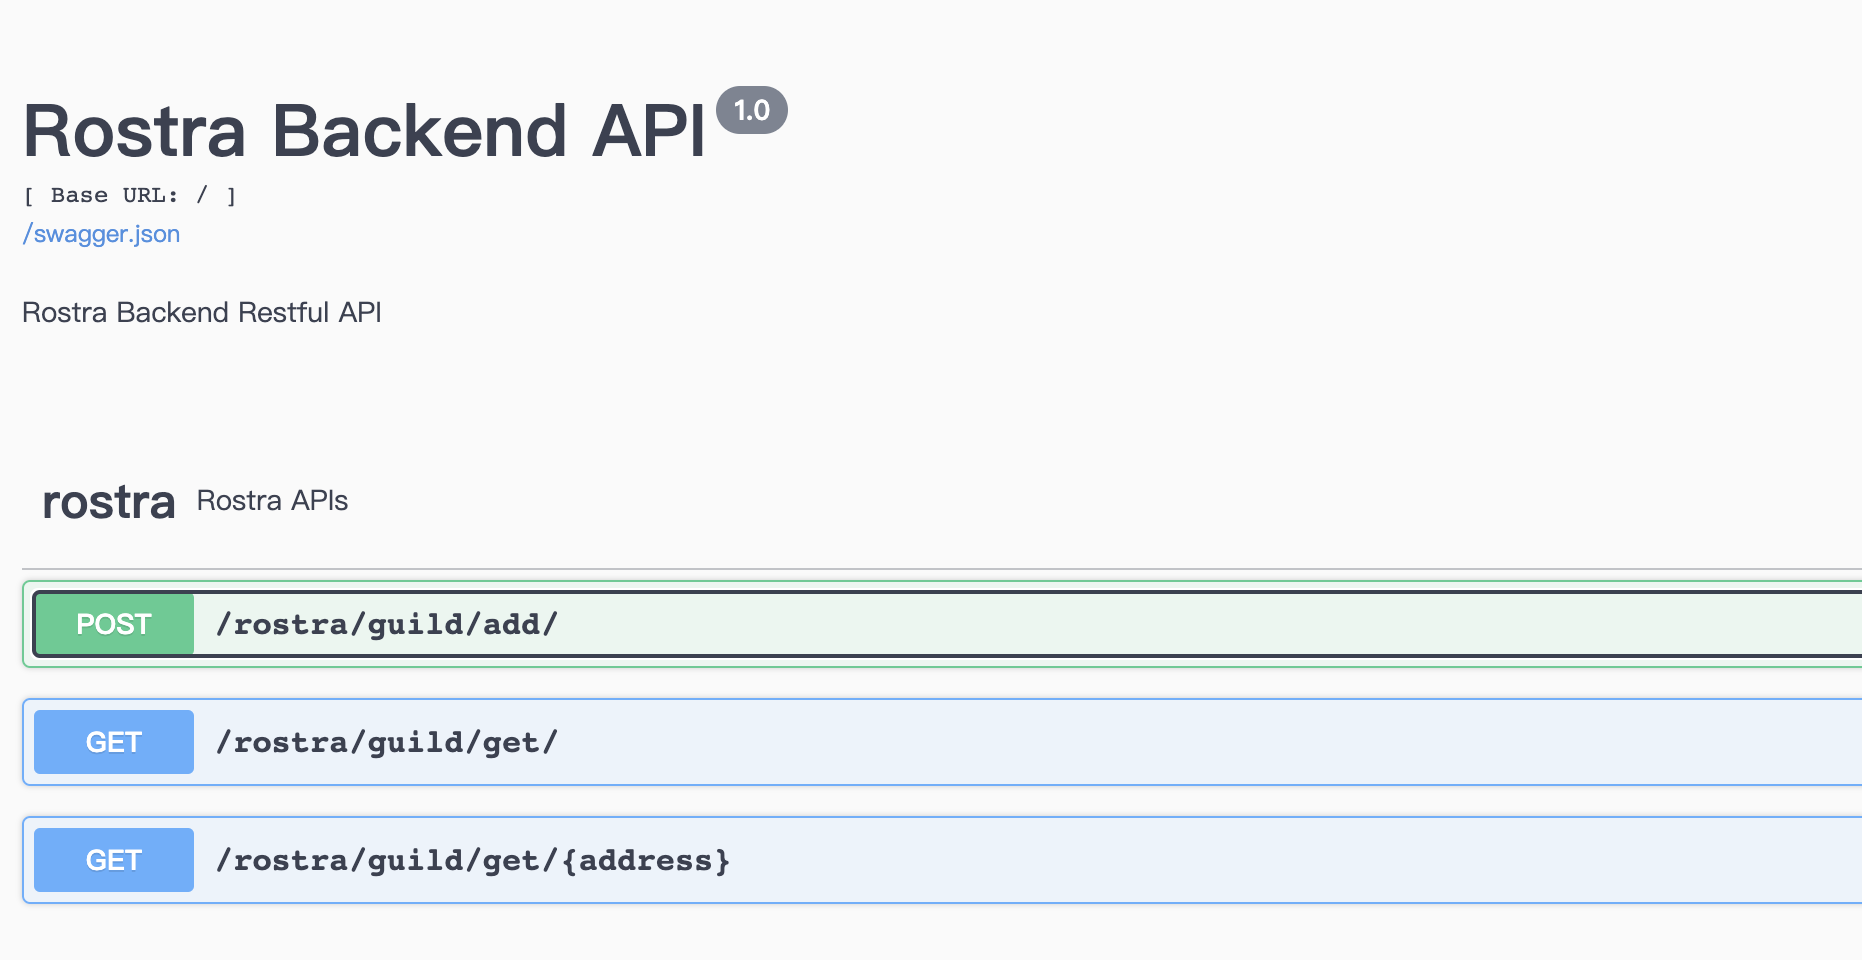
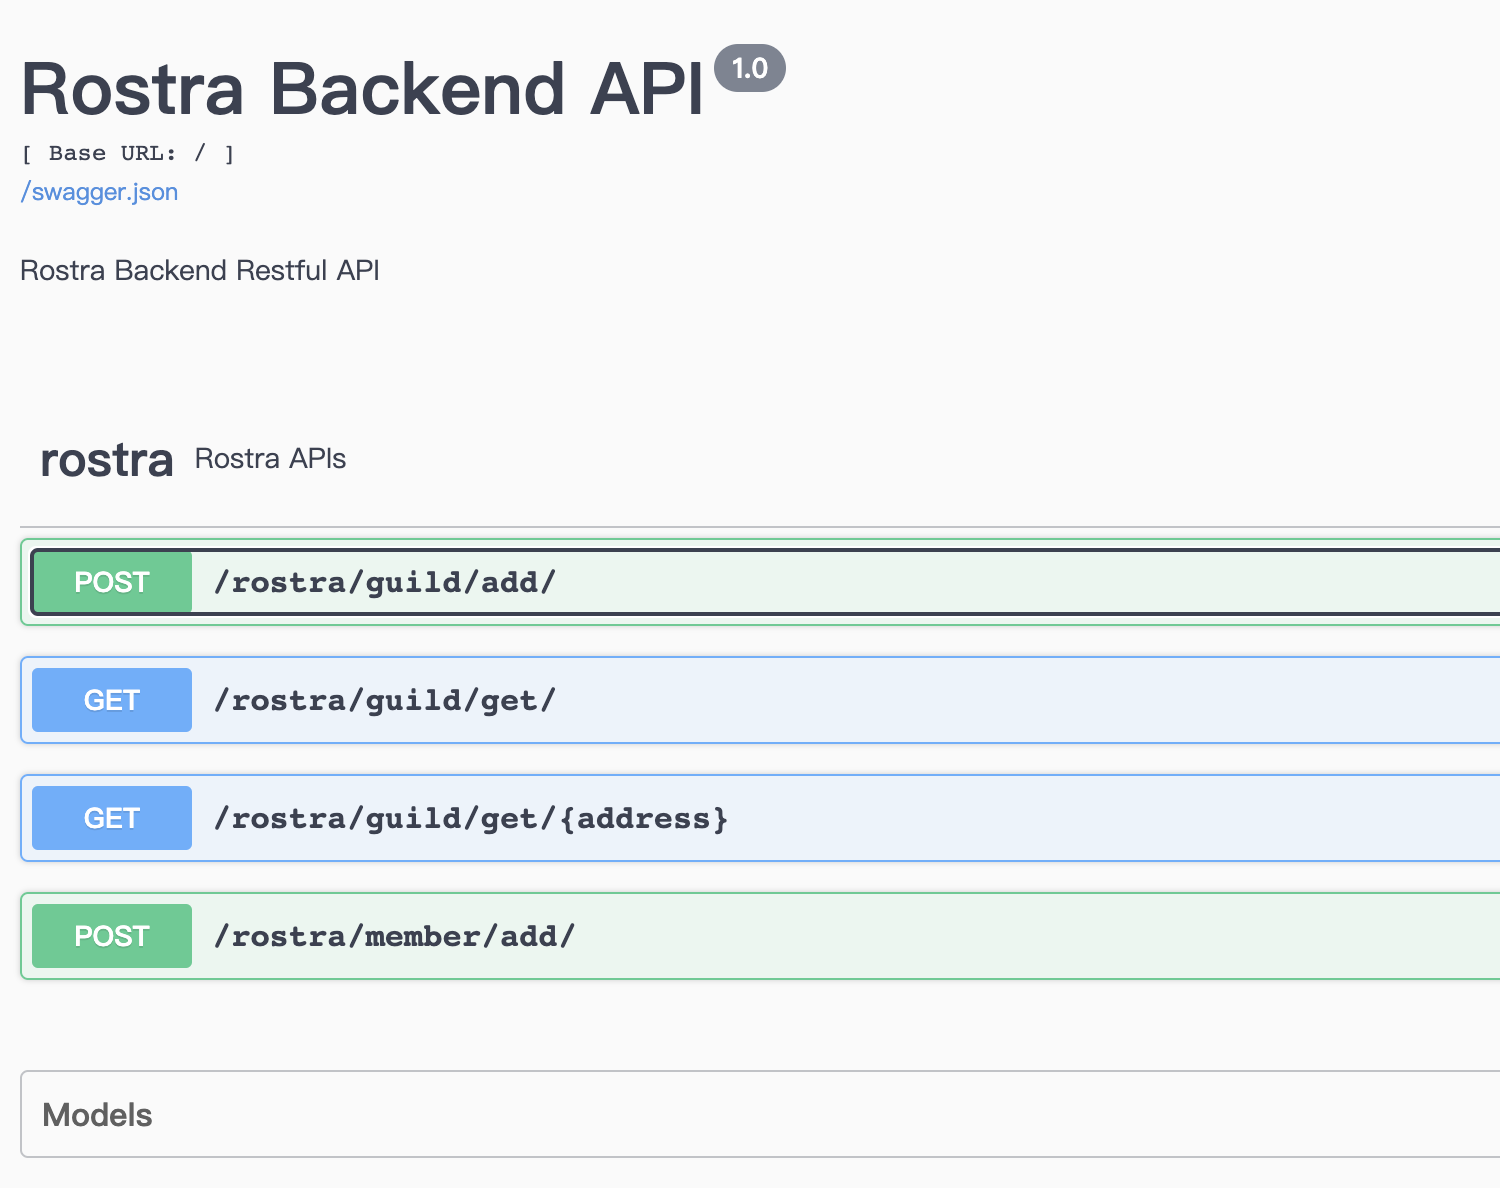
更新pic

diff --git a/app.py b/app.py
@@ -51,7 +51,7 @@ member_fields = rostra_conf.model('member', {
 })
 
 
-@rostra_conf.route('/member/add/', methods=['POST'])
+@rostra_conf.route('guild/members/add/', methods=['POST'])
 class Add(Resource):
     @rostra_conf.doc(body=member_fields, responses={201: 'Member added to Guild'})
     @api.response(500, 'Internal Error')
